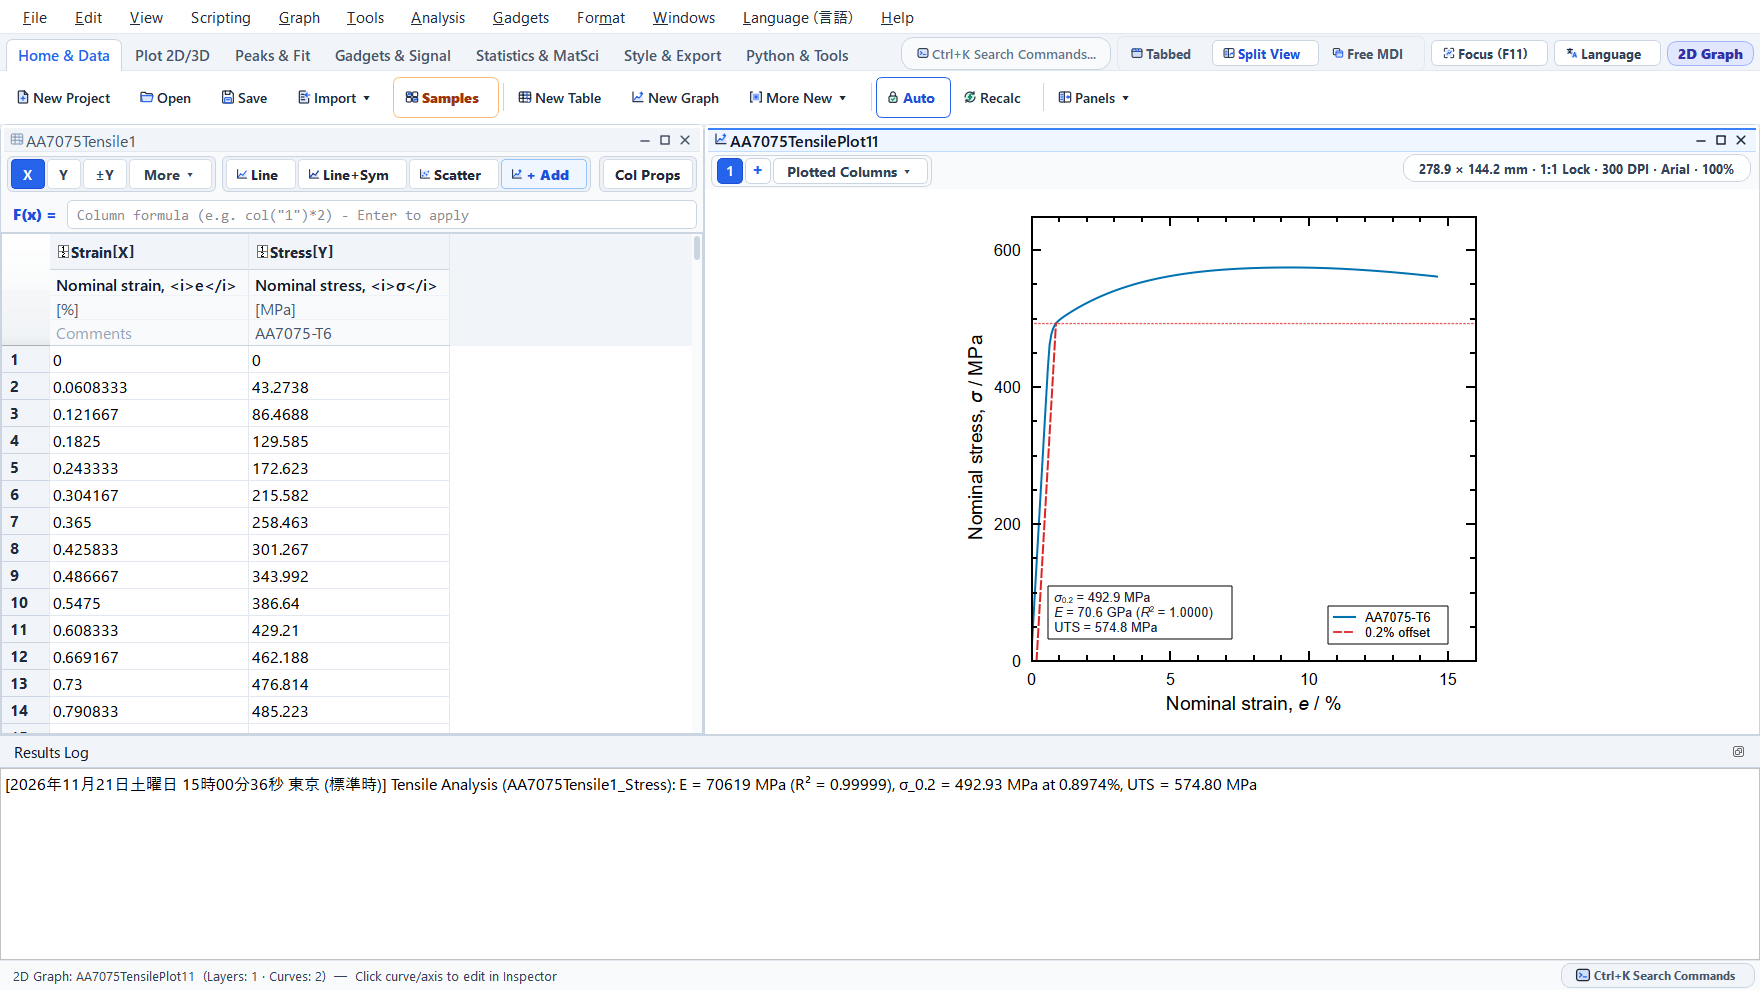
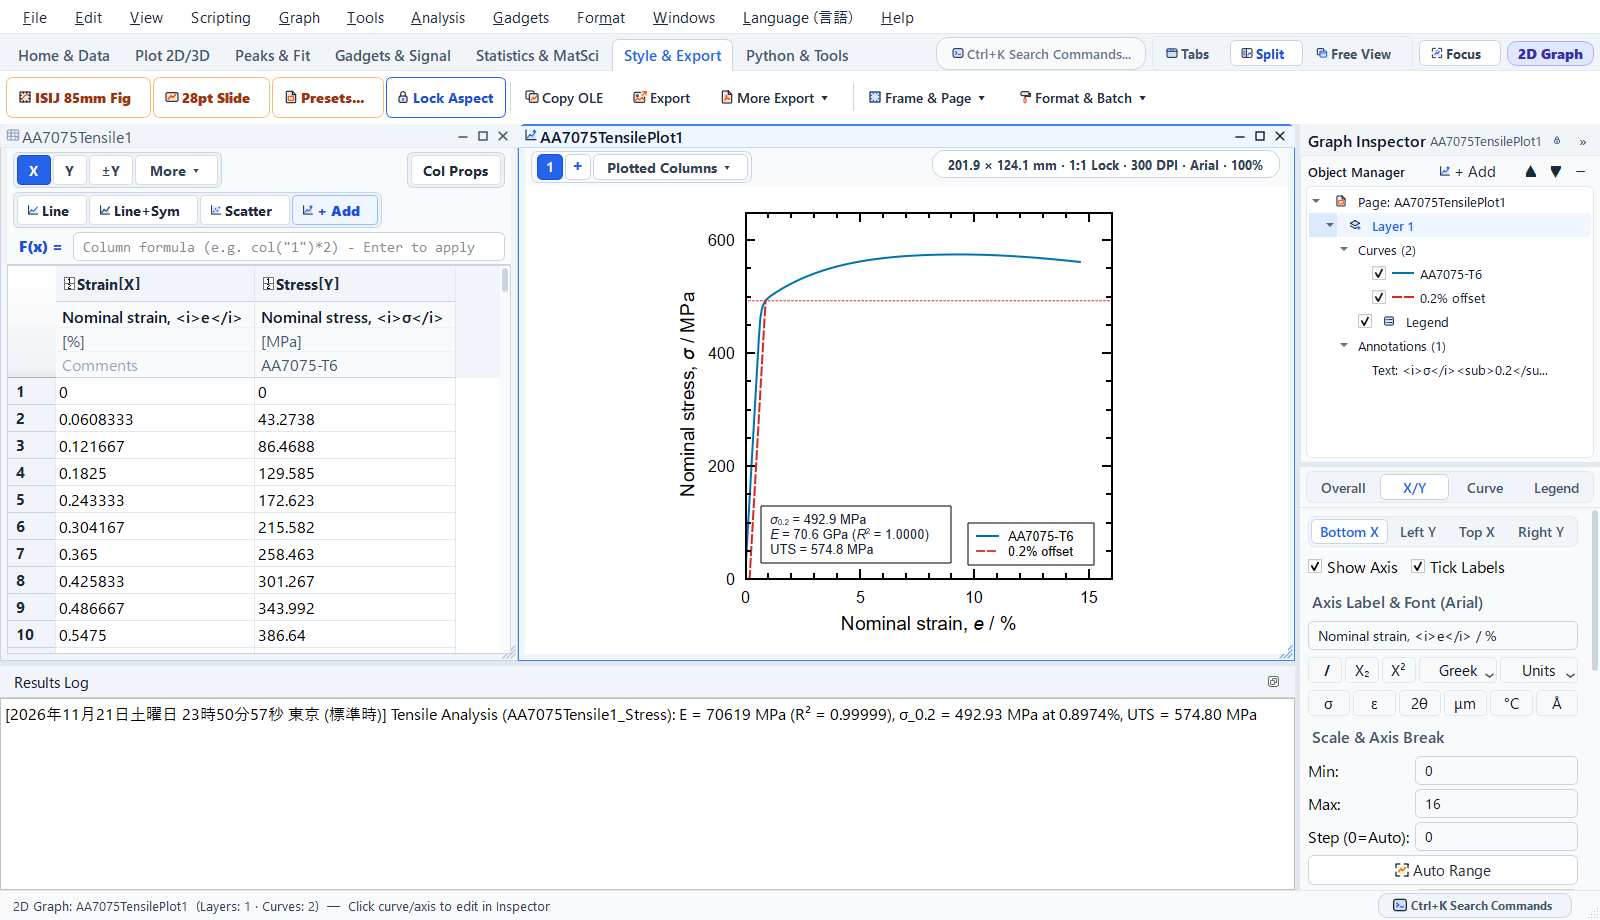
最新画面のREADMEスクリーンショット更新と軸インスペクタ表記・m_batch初期化の修正

diff --git a/libscidavis/src/GraphInspectorDock.cpp b/libscidavis/src/GraphInspectorDock.cpp
@@ -318,6 +318,7 @@ static void registerInspectorExtraTranslations()
         reg("Change Tick Divide Factor", "目盛り除算係数の変更");
         reg("Apply Font Size to All 4 Axes", "全4軸のフォントサイズを連動変更");
         reg("Units / Symbols", "単位・記号");
+        reg("Units", "単位");
         reg("Insert Symbol, Unit, or Journal Axis Template",
             "記号・単位・論文用軸ラベル定型を入力");
         reg("Symbols", "科学記号");
@@ -388,6 +389,8 @@ static void registerInspectorExtraTranslations()
         reg("Cool-Warm", "クール-ウォーム");
         reg("+ Link Top-X Axis (Arrhenius)", "+ 上X軸リンク (アレニウス等)");
         reg("Show Tick Numbers", "目盛り数値を表示");
+        reg("Show Axis", "この軸を表示");
+        reg("Tick Labels", "目盛り数値を表示");
         reg("Toggle Tick Numbers", "目盛り数値の表示切替");
         reg("Unit Format:", "単位表記:");
         reg("Unit Format", "単位表記");
@@ -2021,19 +2024,25 @@ QWidget *GraphInspectorDock::buildAxisInspector()
 
     QHBoxLayout *fmtRow = new QHBoxLayout();
     fmtRow->setSpacing(3);
-    auto makeFmtBtn = [&](const QString &label) -> QToolButton * {
+    auto makeFmtBtn = [&](const QString &label, bool compact) -> QToolButton * {
         QToolButton *b = new QToolButton(page);
         b->setObjectName(QStringLiteral("InspectorSymbolChipBtn"));
         b->setText(label);
         b->setFixedHeight(24);
-        b->setMinimumWidth(26);
+        if (compact) {
+            b->setFixedWidth(28);
+            b->setSizePolicy(QSizePolicy::Fixed, QSizePolicy::Fixed);
+            fmtRow->addWidget(b, 0);
+        } else {
+            b->setMinimumWidth(52);
+            b->setSizePolicy(QSizePolicy::Expanding, QSizePolicy::Fixed);
+            fmtRow->addWidget(b, 1);
+        }
         b->setCursor(Qt::PointingHandCursor);
-        b->setSizePolicy(QSizePolicy::Expanding, QSizePolicy::Fixed);
-        fmtRow->addWidget(b);
         return b;
     };
 
-    d_btn_fmt_italic = makeFmtBtn(QStringLiteral("I"));
+    d_btn_fmt_italic = makeFmtBtn(QStringLiteral("I"), true);
     QFont itFont = d_btn_fmt_italic->font();
     itFont.setItalic(true);
     itFont.setBold(true);
@@ -2042,23 +2051,23 @@ QWidget *GraphInspectorDock::buildAxisInspector()
         applyAxisTitleMarkup(QStringLiteral("<i>"), QStringLiteral("</i>"));
     });
 
-    d_btn_fmt_sub = makeFmtBtn(QString::fromUtf8("X\xE2\x82\x82")); // X₂
+    d_btn_fmt_sub = makeFmtBtn(QString::fromUtf8("X\xE2\x82\x82"), true); // X₂
     connect(d_btn_fmt_sub, &QToolButton::clicked, this, [this]() {
         applyAxisTitleMarkup(QStringLiteral("<sub>"), QStringLiteral("</sub>"));
     });
 
-    d_btn_fmt_sup = makeFmtBtn(QString::fromUtf8("X\xC2\xB2")); // X²
+    d_btn_fmt_sup = makeFmtBtn(QString::fromUtf8("X\xC2\xB2"), true); // X²
     connect(d_btn_fmt_sup, &QToolButton::clicked, this, [this]() {
         applyAxisTitleMarkup(QStringLiteral("<sup>"), QStringLiteral("</sup>"));
     });
 
-    d_btn_fmt_greek = makeFmtBtn(QString());
+    d_btn_fmt_greek = makeFmtBtn(QString(), false);
     d_btn_fmt_greek->setPopupMode(QToolButton::InstantPopup);
     d_menu_greek = new QMenu(d_btn_fmt_greek);
     rebuildGreekSymbolMenu();
     d_btn_fmt_greek->setMenu(d_menu_greek);
 
-    d_btn_fmt_unit = makeFmtBtn(QString());
+    d_btn_fmt_unit = makeFmtBtn(QString(), false);
     d_btn_fmt_unit->setPopupMode(QToolButton::InstantPopup);
     d_menu_units = new QMenu(d_btn_fmt_unit);
     rebuildUnitsSymbolMenu();
@@ -6599,9 +6608,9 @@ void GraphInspectorDock::retranslateUi()
     if (d_btn_axis_right)
         d_btn_axis_right->setText(tr("Right Y"));
     if (d_chk_axis_visible)
-        d_chk_axis_visible->setText(tr("Show Selected Axis"));
+        d_chk_axis_visible->setText(tr("Show Axis"));
     if (d_chk_tick_labels)
-        d_chk_tick_labels->setText(tr("Show Tick Numbers"));
+        d_chk_tick_labels->setText(tr("Tick Labels"));
 
     if (d_sec_axis_range_lbl)
         d_sec_axis_range_lbl->setText(tr("Scale & Axis Break"));
@@ -6692,7 +6701,7 @@ void GraphInspectorDock::retranslateUi()
     }
     rebuildGreekSymbolMenu();
     if (d_btn_fmt_unit) {
-        d_btn_fmt_unit->setText(tr("Units / Symbols"));
+        d_btn_fmt_unit->setText(tr("Units"));
         d_btn_fmt_unit->setToolTip(tr("Insert Symbol, Unit, or Journal Axis Template"));
     }
     rebuildUnitsSymbolMenu();

diff --git a/libscidavis/src/ApplicationWindow.h b/libscidavis/src/ApplicationWindow.h
@@ -1328,7 +1328,7 @@ protected:
     void showWindowMenu(MyWidget *widget) { showWindowMenuImpl(widget)->exec(QCursor::pos()); }
 
 private:
-    bool m_batch;
+    bool m_batch = false;
 
     //! Create a menu for toggeling the toolbars
     QMenu *createToolbarsMenu();
